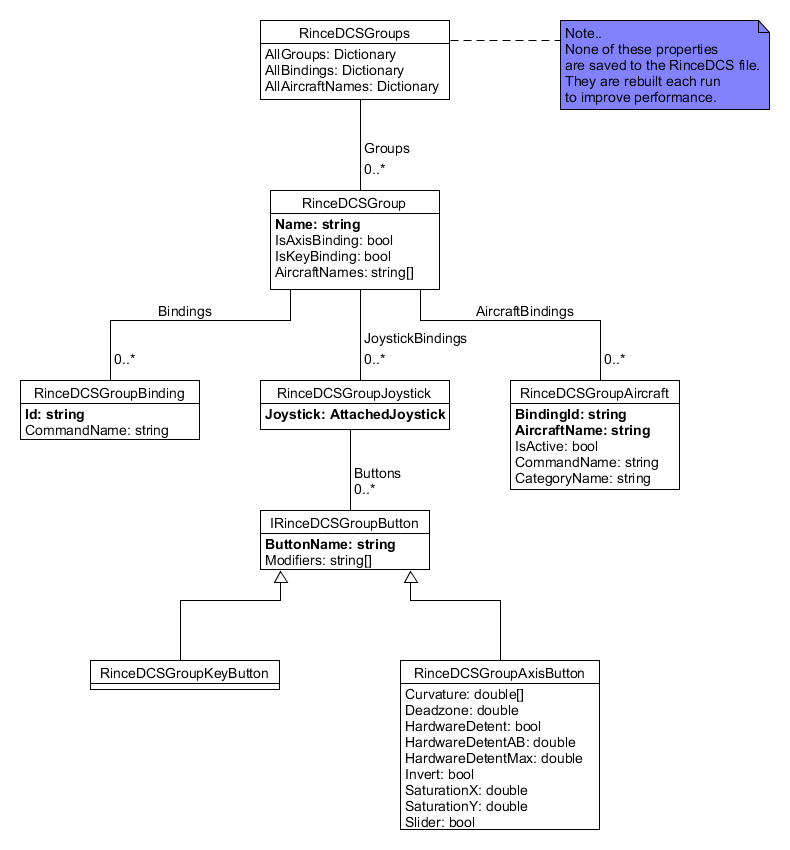
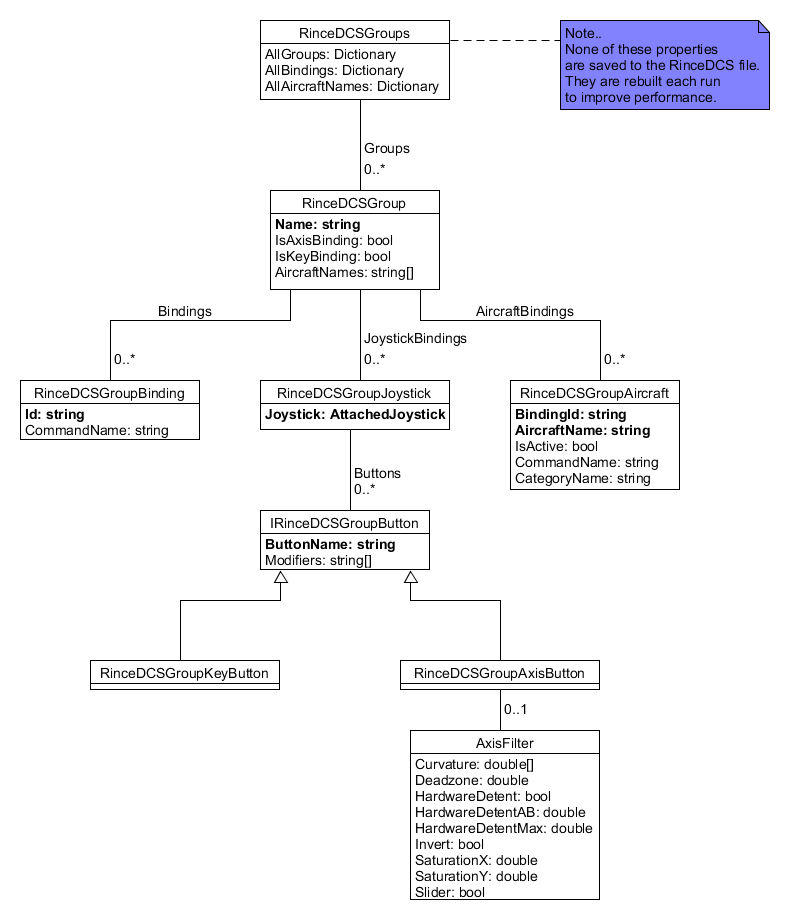
Complete merge and update class diagrams to latest version.

diff --git a/Models/DCSData.cs b/Models/DCSData.cs
@@ -53,7 +53,6 @@ public class DCSAircraftJoystickBinding
 {
     public DCSAircraftKey AircraftKey { get; set; }
     public DCSJoystickKey JoystickKey { get; set; }
-    public Dictionary<DCSButtonKey, IDCSButton> AssignedButtons { get; set; } = new();
     public Dictionary<string, IDCSButton> AssignedButtons { get; set; } = new();
     public DCSButtonChanges SavedGamesButtonChanges { get; set; } = new();
 }
@@ -61,33 +60,20 @@ public class DCSAircraftJoystickBinding
 public class DCSButtonChanges
 {
     public List<DCSAxisButton> ChangedAxisButtons { get; set; } = new();
-    public List<IDCSButton> RemovedAxisButtons { get; set; } = new();
-    public List<DCSAxisButton> AddedAxisButtons { get; set; } = new();
     public List<DCSAxisButton> RemovedAxisButtons { get; set; } = new();
+    public List<DCSAxisButton> AddedAxisButtons { get; set; } = new();
     public List<DCSKeyButton> AddedKeyButtons { get; set; } = new();
-    public List<IDCSButton> RemovedKeyButtons { get; set; } = new();
     public List<DCSKeyButton> RemovedKeyButtons { get; set; } = new();
 }
 
 public interface IDCSButton
 {
-    public DCSButtonKey Key { get; set; }
-    public List<string> Modifiers { get; set; }
     public string Name { get; set; }
     public List<string> Modifiers { get; set; }
 }
 
 public class DCSKeyButton : IDCSButton
 {
-    public DCSButtonKey Key { get; set; }
-    public List<string> Modifiers { get; set; } = new();
-}
-
-public class DCSAxisButton : IDCSButton
-{
-    public DCSButtonKey Key { get; set; }
-    public List<string> Modifiers { get; set; } = new();
-    public DCSAxisFilter Filter { get; set; }
     public string Name { get; set; }
     public List<string> Modifiers { get; set; } = new();
 }
@@ -96,33 +82,5 @@ public class DCSAxisButton : IDCSButton
 {
     public string Name { get; set; }
     public List<string> Modifiers { get; set; } = new();
-    public List<double> Curvature { get; set; } = new();
-    public double Deadzone { get; set; }
-    public bool HardwareDetent { get; set; }
-    public double HardwareDetentAB { get; set; }
-    public double HardwareDetentMax { get; set; }
-    public bool Invert { get; set; }
-    public double SaturationX { get; set; }
-    public double SaturationY { get; set; }
-    public bool Slider { get; set; }
-
-    public DCSAxisFilter()
-    {
-        Curvature = new();
-    }
-}
-
-public class DCSKeyButton : DCSButton
-{
-    public List<string> Modifiers { get; set; } = new();
-}
-
-public class DCSKeyButton : DCSButton
-{
-    public List<string> Modifiers { get; set; } = new();
-}
-
-public class DCSKeyButton : DCSButton
-{
-    public List<string> Modifiers { get; set; } = new();
+    public AxisFilter Filter { get; set; }
 }

diff --git a/ViewModels/Helpers/JoystickVMHelper.cs b/ViewModels/Helpers/JoystickVMHelper.cs
@@ -95,15 +95,14 @@ public class JoystickVMHelper
         foreach (IDCSButton button in bindingButtons.AssignedButtons.Values)
         {
             AssignedButtonKey key;
-            GameAssignedButtonKey key;
             bool isModifer = button.Modifiers.Count > 0;
             if (button is DCSAxisButton)
             {
-                key = new(button.Key.Name, isModifer);
+                key = new(button.Name, isModifer);
             }
             else
             {
-                key = new(button.Key.Name, isModifer);
+                key = new(button.Name, isModifer);
             }
             if (buttonsOnLayout.ContainsKey(key))
             {
@@ -114,7 +113,7 @@ public class JoystickVMHelper
         }
     }
 
-    private void AddButtonConfiguration(DCSButton button, GameAssignedButton vwButton)
+    private void AddButtonConfiguration(IDCSButton button, AssignedButton vwButton)
     {
         vwButton.Modifiers.AddRange(button.Modifiers);
         if (button is DCSAxisButton)
@@ -123,31 +122,11 @@ public class JoystickVMHelper
             DCSAxisButton axisButton = button as DCSAxisButton;
             if (axisButton.Filter != null)
             {
-                foreach (double curve in axisButton.Filter.Curvature)
-                {
-                    vwButton.Filter.Curvature.Add((int)(curve * 100));
-                }
-                vwButton.Filter.Deadzone = (int)axisButton.Filter.Deadzone;
-                vwButton.Filter.HardwareDetent = axisButton.Filter.HardwareDetent;
-                vwButton.Filter.HardwareDetentAB = (int)axisButton.Filter.HardwareDetentAB;
-                vwButton.Filter.HardwareDetentMax = (int)axisButton.Filter.HardwareDetentMax;
-                vwButton.Filter.Invert = axisButton.Filter.Invert;
-                vwButton.Filter.SaturationX = (int)(axisButton.Filter.SaturationX * 100);
-                vwButton.Filter.SaturationY = (int)(axisButton.Filter.SaturationY * 100);
-                vwButton.Filter.Slider = axisButton.Filter.Slider;
+                vwButton.Filter = new(axisButton.Filter);
             }
             else
             {
-                //  Set to default values
-                vwButton.Filter.Curvature.Add(0);
-                vwButton.Filter.Deadzone = 0;
-                vwButton.Filter.HardwareDetent = false;
-                vwButton.Filter.HardwareDetentAB = 0;
-                vwButton.Filter.HardwareDetentMax = 0;
-                vwButton.Filter.Invert = false;
-                vwButton.Filter.SaturationX = 100;
-                vwButton.Filter.SaturationY = 100;
-                vwButton.Filter.Slider = false;
+                vwButton.Filter = new();
             }
         }
         else 

diff --git a/ViewModels/Helpers/GroupsVMHelper.cs b/ViewModels/Helpers/GroupsVMHelper.cs
@@ -1,4 +1,5 @@
 using HtmlAgilityPack;
+using Microsoft.UI.Xaml.Controls;
 using Microsoft.UI.Xaml.Data;
 using RinceDCS.Models;
 using SharpDX.DirectInput;
@@ -174,26 +175,25 @@ public class GroupsVMHelper
                                 DCSAxisButton dcsAxisButton = (DCSAxisButton)button;
                                 RinceDCSGroupAxisButton newAxisButton = new()
                                 {
-                                    ButtonName = dcsAxisButton.Name,
-                                    Curvature = dcsAxisButton.Curvature.ToList(),
-                                    Deadzone = dcsAxisButton.Deadzone,
-                                    HardwareDetent = dcsAxisButton.HardwareDetent,
-                                    HardwareDetentAB = dcsAxisButton.HardwareDetentAB,
-                                    HardwareDetentMax = dcsAxisButton.HardwareDetentMax,
-                                    Invert = dcsAxisButton.Invert,
-                                    SaturationX = dcsAxisButton.SaturationX,
-                                    SaturationY = dcsAxisButton.SaturationY,
-                                    Slider = dcsAxisButton.Slider
+                                    ButtonName = button.Name,
+                                    Modifiers = button.Modifiers.ToList()
                                 };
+                                if(dcsAxisButton.Filter != null)
+                                {
+                                    newAxisButton.Filter = new(dcsAxisButton.Filter);
+                                }
+                                else
+                                {
+                                    newAxisButton.Filter = new();
+                                }
                                 bindingStick.Buttons.Add(newAxisButton);
                             }
                             else
                             {
-                                DCSKeyButton dcsKeyButton = (DCSKeyButton)button;
                                 RinceDCSGroupKeyButton newKeyButton = new()
                                 {
-                                    ButtonName = dcsKeyButton.Name,
-                                    Modifiers = dcsKeyButton.Modifiers.ToList()
+                                    ButtonName = button.Name,
+                                    Modifiers = button.Modifiers.ToList()
                                 };
                                 bindingStick.Buttons.Add(newKeyButton);
                             }

diff --git a/Services/DCSService.cs b/Services/DCSService.cs
@@ -433,40 +433,40 @@ public class DCSService : IDCSService
                 Table curvatureTable = filterTable.Values.ElementAt(j).Table;
                 for (int k = 0; k < curvatureTable.Keys.Count(); k++)
                 {
-                    axisButton.Curvature.Add(curvatureTable.Values.ElementAt(k).Number);
+                    axisButton.Filter.Curvature.Add(curvatureTable.Values.ElementAt(k).Number);
                 }
             }
             else if (sectionName == "deadzone")
             {
-                axisButton.Deadzone = filterTable.Values.ElementAt(j).Number;
+                axisButton.Filter.Deadzone = filterTable.Values.ElementAt(j).Number;
             }
             else if (sectionName == "hardwareDetent")
             {
-                axisButton.HardwareDetent = filterTable.Values.ElementAt(j).Boolean;
+                axisButton.Filter.HardwareDetent = filterTable.Values.ElementAt(j).Boolean;
             }
             else if (sectionName == "hardwareDetentAB")
             {
-                axisButton.HardwareDetentAB = filterTable.Values.ElementAt(j).Number;
+                axisButton.Filter.HardwareDetentAB = filterTable.Values.ElementAt(j).Number;
             }
             else if (sectionName == "hardwareDetentMax")
             {
-                axisButton.HardwareDetentMax = filterTable.Values.ElementAt(j).Number;
+                axisButton.Filter.HardwareDetentMax = filterTable.Values.ElementAt(j).Number;
             }
             else if (sectionName == "invert")
             {
-                axisButton.Invert = filterTable.Values.ElementAt(j).Boolean;
+                axisButton.Filter.Invert = filterTable.Values.ElementAt(j).Boolean;
             }
             else if (sectionName == "saturationX")
             {
-                axisButton.SaturationX = filterTable.Values.ElementAt(j).Number;
+                axisButton.Filter.SaturationX = filterTable.Values.ElementAt(j).Number;
             }
             else if (sectionName == "saturationY")
             {
-                axisButton.SaturationY = filterTable.Values.ElementAt(j).Number;
+                axisButton.Filter.SaturationY = filterTable.Values.ElementAt(j).Number;
             }
             else if (sectionName == "slider")
             {
-                axisButton.Slider = filterTable.Values.ElementAt(j).Boolean;
+                axisButton.Filter.Slider = filterTable.Values.ElementAt(j).Boolean;
             }
         }
     }

diff --git a/Models/AxisFilter.cs b/Models/AxisFilter.cs
@@ -1,0 +1,64 @@
+using Microsoft.UI.Xaml.Controls;
+using System;
+using System.Collections.Generic;
+using System.Linq;
+using System.Text;
+using System.Threading.Tasks;
+
+namespace RinceDCS.Models;
+
+public sealed class AxisFilter
+{
+    public List<double> Curvature { get; set; } = new();
+    public bool HasUserCurve { get { return Curvature.Count > 1; } }
+    public double Deadzone { get; set; }
+    public bool HardwareDetent { get; set; }
+    public double HardwareDetentAB { get; set; }
+    public double HardwareDetentMax { get; set; }
+    public bool Invert { get; set; }
+    public double SaturationX { get; set; }
+    public double SaturationY { get; set; }
+    public bool Slider { get; set; }
+
+    public AxisFilter()
+    {
+        //  Set to default values
+        Curvature.Add(0);
+        Deadzone = 0;
+        HardwareDetent = false;
+        HardwareDetentAB = 0;
+        HardwareDetentMax = 0;
+        Invert = false;
+        SaturationX = 1;
+        SaturationY = 1;
+        Slider = false;
+    }
+
+    public AxisFilter(AxisFilter from)
+    {
+        //  Set to default values
+        Curvature = from.Curvature.ToList();
+        Deadzone = from.Deadzone;
+        HardwareDetent = from.HardwareDetent;
+        HardwareDetentAB = from.HardwareDetentAB;
+        HardwareDetentMax = from.HardwareDetentMax;
+        Invert = from.Invert;
+        SaturationX = from.SaturationX;
+        SaturationY = from.SaturationY;
+        Slider = from.Slider;
+    }
+
+    public bool IsDefault()
+    {
+        return (Curvature.Count == 1 &&
+                Curvature[0] == 0 &&
+                Deadzone == 0 &&
+                HardwareDetent == false &&
+                HardwareDetentAB == 0 &&
+                HardwareDetentMax == 0 &&
+                Invert == false &&
+                SaturationX == 1 &&
+                SaturationY == 1 &&
+                Slider == false);
+    }
+}

diff --git a/Models/AssignedButton.cs b/Models/AssignedButton.cs
@@ -10,23 +10,11 @@ public record AssignedButtonKey(string ButtonName, bool IsModifier);
 
 public class AssignedButton
 {
-    public RinceDCSJoystickButton JoystickButton { get; }
-
-    public List<AssignedCommand> Commands { get; } = new();
-
-    // DCS Button Details
     public bool IsAxisButton { get; set; }
-    public List<int> Curvature { get; } = new();
-    public bool HasUserCurve { get { return Curvature.Count > 1; } }
-    public int Deadzone { get; set; }
-    public bool HardwareDetent { get; set; }
-    public int HardwareDetentAB { get; set; }
-    public int HardwareDetentMax { get; set; }
-    public bool Invert { get; set; }
-    public int SaturationX { get; set; }
-    public int SaturationY { get; set; }
-    public bool Slider { get; set; }
+    public RinceDCSJoystickButton JoystickButton { get; }
     public List<string> Modifiers { get; } = new();
+    public List<AssignedCommand> Commands { get; } = new();
+    public AxisFilter Filter { get; set; }
 
     public string Command
     {

diff --git a/Models/RinceDCSGroups.cs b/Models/RinceDCSGroups.cs
@@ -58,15 +58,7 @@ public class RinceDCSGroupAxisButton : IRinceDCSGroupButton
 {
     public string ButtonName { get; set; }
     public List<string> Modifiers { get; set; } = new();
-    public List<double> Curvature { get; set; } = new();
-    public double Deadzone { get; set; }
-    public bool HardwareDetent { get; set; }
-    public double HardwareDetentAB { get; set; }
-    public double HardwareDetentMax { get; set; }
-    public bool Invert { get; set; }
-    public double SaturationX { get; set; }
-    public double SaturationY { get; set; }
-    public bool Slider { get; set; }
+    public AxisFilter Filter { get; set; }
 }
 
 public class RinceDCSGroupKeyButton : IRinceDCSGroupButton
